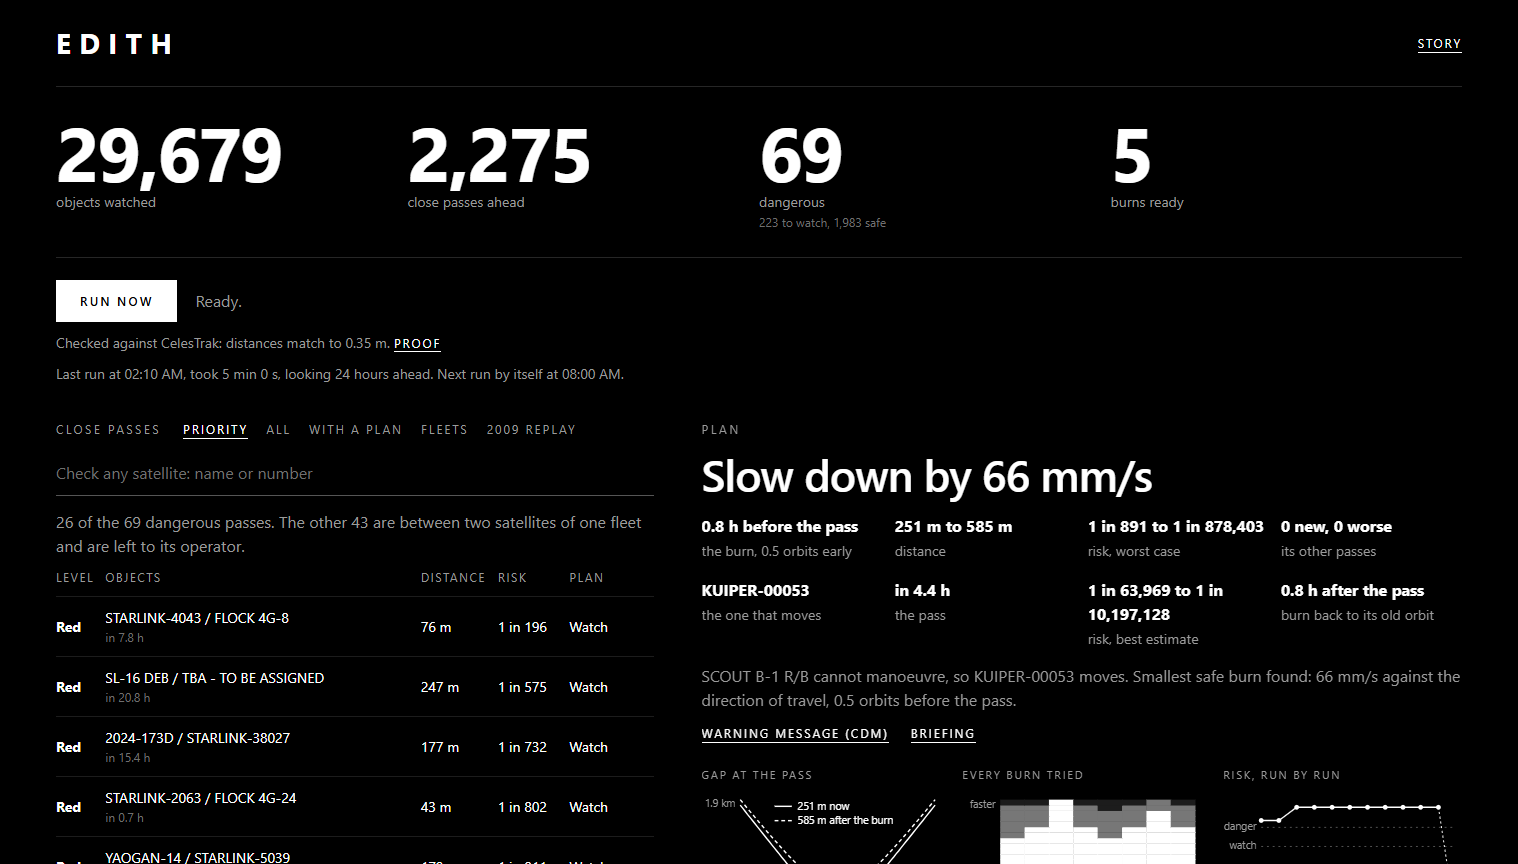
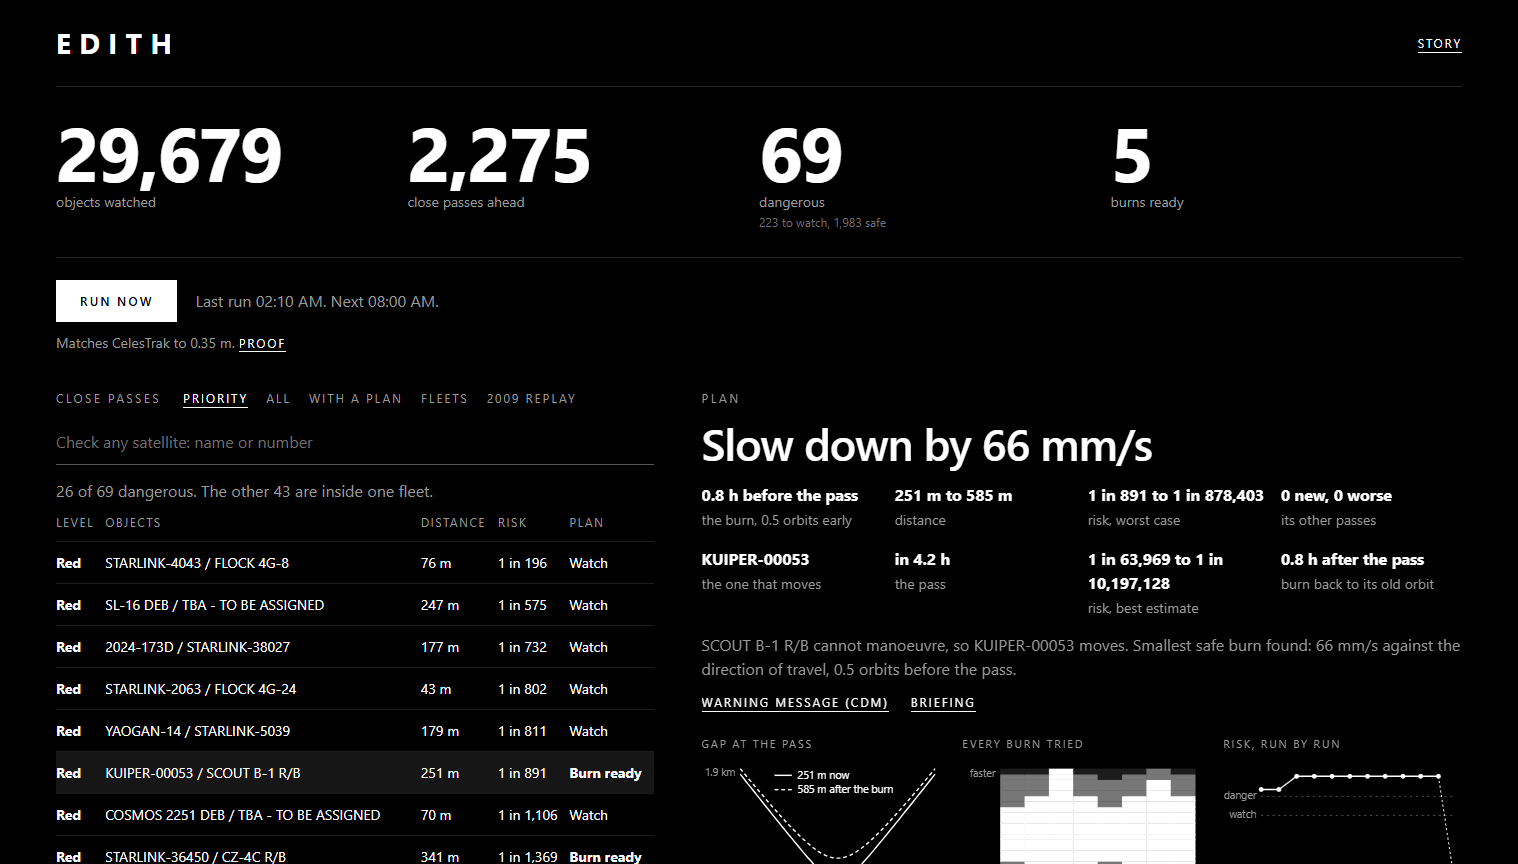
Dashboard: fewer words at the top, and no time line under each row

Changed region(s): [[0.031, 0.3438, 0.4335, 1.0], [0.4644, 0.5, 0.9598, 1.0]]

diff --git a/fusion/api/static/index.html b/fusion/api/static/index.html
@@ -18,7 +18,7 @@
   .tiles div { padding: 26px 0; }
   .tiles b { display: block; font-size: clamp(34px, 5.4vw, 76px); line-height: 1; letter-spacing: -.03em; }
   .tiles span, .facts span { color: #9a9a9a; font-size: 14px; }
-  .tiles .sub, .when { display: block; color: #6f6f6f; font-size: 12px; }
+  .tiles .sub { display: block; color: #6f6f6f; font-size: 12px; }
   .run { display: flex; align-items: center; gap: 18px; padding: 22px 0 0; }
   button { background: #fff; color: #000; border: 0; padding: 13px 24px; font-family: inherit; font-size: 12px; font-weight: 600; letter-spacing: .18em; text-transform: uppercase; cursor: pointer; }
   button:disabled { opacity: .45; cursor: default; }
@@ -81,9 +81,8 @@
   <div><b id="t-burns">-</b><span>burns ready</span></div>
 </div>
 
-<div class="run"><button id="run">Run now</button><span id="status">Ready.</span></div>
+<div class="run"><button id="run">Run now</button><span id="status"></span></div>
 <p class="check"><span id="validation"></span> <a id="report" href="#proof-title" hidden>Proof</a></p>
-<p class="check" id="runinfo"></p>
 
 <div class="split">
   <div id="planbox"><h2>Plan</h2><div id="plan"><p class="why">Pick a pass.</p></div></div>
@@ -107,6 +106,7 @@
 <script>
 const $ = id => document.getElementById(id);
 let picked = null, runId = null, source = "latest", onlyBurns = false;
+let idle = "", failed = false;  // what the line beside the Run button says between runs; a failure stays until the next run
 let checked = null, typed = 0;  // the result of checking one satellite, shown when source is "object"
 let fleet = null;  // the fleet whose passes the list shows, when one was picked under Fleets
 let priority = true, reds = null, shown = null;  // Priority: the dangerous passes that are not inside one fleet
@@ -132,19 +132,18 @@ async function loadTop() {
   $("t-burns").textContent = n(r.plans.maneuver);
   $("t-rest").textContent = n(r.levels.AMBER) + " to watch, " + n(r.levels.GREEN) + " safe";
   $("error").textContent = "";
-  const took = r.duration_s >= 90 ? Math.floor(r.duration_s / 60) + " min " + Math.round(r.duration_s % 60) + " s" : Math.round(r.duration_s) + " s";
-  let info = "Last run at " + clock(r.t0) + ", took " + took + ", looking " + r.window_hours + " hours ahead.";
-  try { const m = await get("/monitor"); if (m.scheduler_on && m.next_run) info += " Next run by itself at " + clock(m.next_run) + "."; } catch (e) { /* the line is shorter without it */ }
-  $("runinfo").textContent = info;
+  idle = "Last run " + clock(r.t0) + ".";
+  try { const m = await get("/monitor"); if (m.scheduler_on && m.next_run) idle += " Next " + clock(m.next_run) + "."; } catch (e) { /* the line is shorter without it */ }
+  if (!runId && !failed) $("status").textContent = idle;
   try {
     const v = await get("/validation");
-    $("validation").textContent = "Checked against CelesTrak: distances match to " + v.same_input.all_matches.miss_difference_m.median.toFixed(2) + " m.";
+    $("validation").textContent = "Matches CelesTrak to " + v.same_input.all_matches.miss_difference_m.median.toFixed(2) + " m.";
   } catch (e) { $("validation").textContent = ""; }
 }
 
 function aboutPriority() {
   if (source !== "latest" || !priority || reds == null || shown == null) return;
-  $("about").textContent = shown + " of the " + reds + " dangerous passes. The other " + (reds - shown) + " are between two satellites of one fleet and are left to its operator.";
+  $("about").textContent = shown + " of " + reds + " dangerous. The other " + (reds - shown) + " are inside one fleet.";
 }
 
 // one row per fleet: passes to act on, passes inside the fleet (left to its operator), burns planned for it
@@ -157,7 +156,7 @@ async function loadFleets() {
       <td>${f.burns ? f.burns + " (" + (f.dv_total_ms * 1000).toFixed(0) + " mm/s)" : ""}</td></tr>`).join("") || '<tr><td colspan="6">Nothing to show.</td></tr>';
   document.querySelectorAll("tr.row").forEach(row => row.onclick = () => {
     fleet = row.dataset.fleet; picked = null;
-    $("about").textContent = fleet + ": every pass that involves one of its satellites.";
+    $("about").textContent = fleet + " passes.";
     loadEvents().catch(fail);
   });
 }
@@ -171,13 +170,13 @@ async function loadEvents() {
   shown = events.length; aboutPriority();
   if (source === "replay") {
     const hit = events.find(e => [e.primary_id, e.secondary_id].sort().join() === "22675,24946");
-    $("about").textContent = hit ? "Iridium 33 and Cosmos 2251 collided on 10 February 2009. The data public a day earlier predicted a miss of " + dist(hit.miss_distance_km) + ", so the honest rating is amber, not red." : "";
+    $("about").textContent = hit ? "They collided on 10 February 2009. Public data a day earlier predicted a " + dist(hit.miss_distance_km) + " miss." : "";
   }
   $("events").innerHTML = events.map(e => {
     const plan = e.plan_decision === "MANEUVER" ? "<b>Burn ready</b>" : e.plan_decision === "MONITOR" ? "Watch" : "";
     return `<tr class="row ${e.event_id === picked ? "picked" : ""}" data-id="${esc(e.event_id)}">
       <td class="${e.risk_level}">${word(e.risk_level)}</td>
-      <td>${esc(e.primary_name)} / ${esc(e.secondary_name)}${e.synthetic ? ' <span class="tag">TEST</span>' : ""}<span class="when">${when(e.tca)}</span></td>
+      <td>${esc(e.primary_name)} / ${esc(e.secondary_name)}${e.synthetic ? ' <span class="tag">TEST</span>' : ""}</td>
       <td>${dist(e.miss_distance_km)}</td><td>${odds(e.pc_max)}</td><td>${plan}</td></tr>`;
   }).join("") || '<tr><td colspan="6">Nothing to show.</td></tr>';
   document.querySelectorAll("tr.row").forEach(row => row.onclick = () => {
@@ -417,7 +416,7 @@ async function loadProof() {
 function refresh() { loadTop().catch(fail); loadEvents().catch(fail); loadAlerts().catch(() => {}); }
 
 $("run").onclick = async () => {
-  $("run").disabled = true;
+  $("run").disabled = true; failed = false;
   $("status").textContent = "Starting...";
   try {
     const r = await fetch("/run", { method: "POST", headers: { "Content-Type": "application/json" }, body: JSON.stringify({ synthetic: false, quick: true, mode: null }) });
@@ -429,8 +428,8 @@ async function poll() {
   if (!runId) return;
   const s = await get("/run/" + runId + "/status");
   const last = s.log.length ? s.log[s.log.length - 1].message : s.stage;
-  $("status").textContent = s.status === "RUNNING" ? last : s.status === "DONE" ? "Done. " + last : "Failed. " + (s.error || "");
-  if (s.status !== "RUNNING") { runId = null; $("run").disabled = false; refresh(); }
+  $("status").textContent = s.status === "RUNNING" ? last : s.status === "DONE" ? "Done." : "Failed. " + (s.error || "");
+  if (s.status !== "RUNNING") { runId = null; failed = s.status !== "DONE"; $("run").disabled = false; refresh(); }
 }
 
 function show(which, burns, tab) {
@@ -438,7 +437,7 @@ function show(which, burns, tab) {
   $("plan").innerHTML = '<p class="why">Pick a pass.</p>';
   ["showPriority", "showLatest", "showBurns", "showFleets", "showReplay"].forEach(id => $(id).classList.toggle("on", id === tab));
   if (which !== "object") { $("q").value = ""; $("found").innerHTML = ""; }
-  $("about").textContent = which === "fleets" ? "Pick a fleet to see its passes. Own fleet: passes between two of its own satellites, left to its operator." : "";
+  $("about").textContent = which === "fleets" ? "Own fleet: passes between two of its own satellites." : "";
   loadEvents().catch(fail);
 }
 
@@ -463,14 +462,14 @@ async function check(id, name) {
   typed++; checked = null;
   show("object", false, "");
   $("q").value = name; $("found").innerHTML = "";
-  $("about").textContent = "Checking " + name + " against everything at its altitude...";
+  $("about").textContent = "Checking...";
   try {
     const r = await fetch("/objects/" + id + "/passes"), d = await r.json();
     if (source !== "object") return;
     if (!r.ok) { $("about").textContent = d.detail || "Could not check it."; return; }
     checked = d;
     const risky = d.passes.filter(e => e.risk_level !== "GREEN").length;
-    $("about").textContent = `${d.passes.length} ${d.passes.length === 1 ? "pass" : "passes"} within ${d.threshold_km} km in the next ${d.hours} hours, ${risky ? risky + " dangerous" : "none dangerous"}. Checked against ${n(d.objects_screened)} objects in ${d.seconds} s.`;
+    $("about").textContent = `${d.passes.length} ${d.passes.length === 1 ? "pass" : "passes"} within ${d.threshold_km} km in ${d.hours} hours, ${risky ? risky + " dangerous" : "none dangerous"}. ${n(d.objects_screened)} objects checked in ${d.seconds} s.`;
     loadEvents();
   } catch (e) { $("about").textContent = "Cannot reach the system."; }
 }
